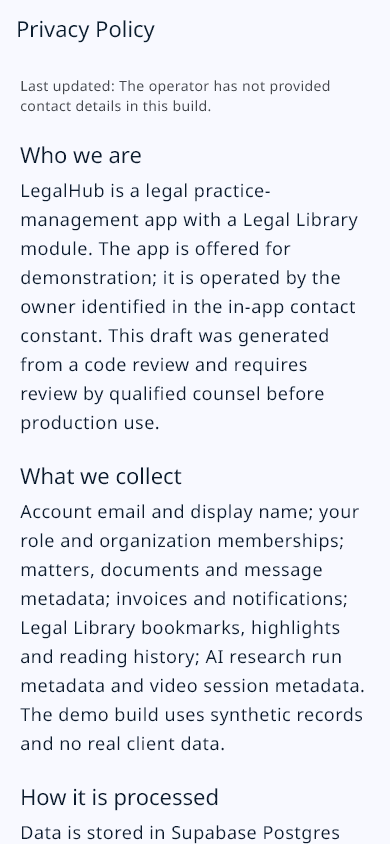
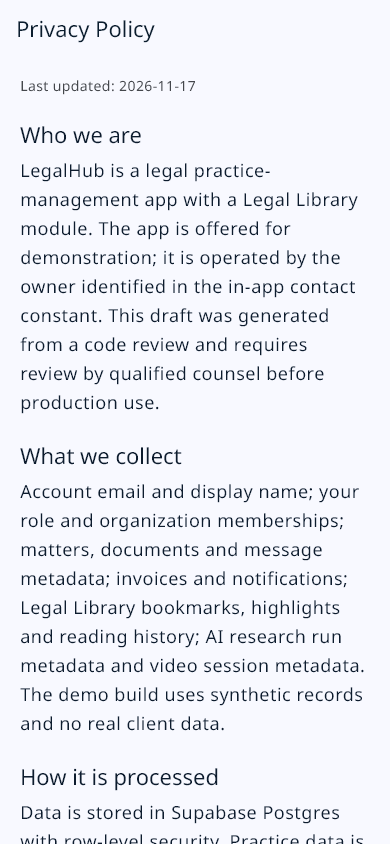
feat(config): fill LegalConfig with owner-confirmed portfolio values
The privacy page still rendered the not-configured notice because all four LegalConfig fields were placeholders. Filling ownerName/contactEmail/lastUpdated/governingLaw (AL-3TAR, al3rar401@gmail.com, 2026-11-17, Laws of Egypt) makes isConfigured true, so the existing per-locale 'Last updated' path renders the ISO date unchanged. A new test pins the four values and the privacy screen's rendered date; the deterministic CAPTURE_SCREENSHOTS generator regenerated only 10_privacy.png (verified by git status). Suite declarations moved 2390 -> 2392 and runtime 2417 -> 2419, so DEEP_DIVE/README were updated with the measured counts; verify_ledger stays green.

Changed region(s): [[0.0308, 0.1232, 0.9231, 1.0], [0.3077, 0.0924, 0.8615, 0.154]]

diff --git a/test/legal/legal_config_test.dart b/test/legal/legal_config_test.dart
@@ -1,0 +1,47 @@
+import 'package:flutter/material.dart';
+import 'package:flutter_test/flutter_test.dart';
+import 'package:legalhub/app/legal_config.dart';
+import 'package:legalhub/features/legal/presentation/legal_document_screen.dart';
+import 'package:legalhub/l10n/app_localizations.dart';
+
+/// Pins the owner-confirmed LegalConfig values and proves the privacy screen
+/// renders them through the existing localisation path (no new formatting).
+void main() {
+  test('owner-confirmed config values are filled and configured', () {
+    expect(LegalConfig.operatorName, 'AL-3TAR');
+    expect(LegalConfig.contactEmail, 'al3rar401@gmail.com');
+    expect(LegalConfig.lastUpdated, '2026-11-17');
+    expect(LegalConfig.governingLaw, 'Laws of Egypt');
+    expect(LegalConfig.isConfigured, isTrue);
+    for (final String value in <String>[
+      LegalConfig.operatorName,
+      LegalConfig.contactEmail,
+      LegalConfig.lastUpdated,
+      LegalConfig.governingLaw,
+    ]) {
+      expect(value.trim(), isNotEmpty);
+      expect(value.startsWith('REPLACE_'), isFalse);
+    }
+  });
+
+  testWidgets('privacy screen renders the filled last-updated date', (
+    WidgetTester tester,
+  ) async {
+    await tester.pumpWidget(
+      const MaterialApp(
+        locale: Locale('en'),
+        localizationsDelegates: AppLocalizations.localizationsDelegates,
+        supportedLocales: AppLocalizations.supportedLocales,
+        home: LegalDocumentScreen(kind: LegalDocumentKind.privacy),
+      ),
+    );
+    await tester.pumpAndSettle();
+
+    final AppLocalizations l10n = AppLocalizations.of(
+      tester.element(find.byType(LegalDocumentScreen)),
+    );
+    expect(find.text(l10n.legalLastUpdated('2026-11-17')), findsOneWidget);
+    expect(find.text('Privacy Policy'), findsOneWidget);
+    expect(tester.takeException(), isNull);
+  });
+}

diff --git a/lib/app/legal_config.dart b/lib/app/legal_config.dart
@@ -7,10 +7,10 @@
 /// the owner replaces them, the screens render an honest "not configured"
 /// notice instead of a fabricated contact address.
 abstract final class LegalConfig {
-  static const String operatorName = 'REPLACE_WITH_LEGAL_ENTITY_NAME';
-  static const String contactEmail = 'REPLACE_WITH_CONTACT_EMAIL';
-  static const String lastUpdated = 'REPLACE_WITH_YYYY-MM-DD';
-  static const String governingLaw = 'REPLACE_WITH_GOVERNING_LAW';
+  static const String operatorName = 'AL-3TAR';
+  static const String contactEmail = 'al3rar401@gmail.com';
+  static const String lastUpdated = '2026-11-17';
+  static const String governingLaw = 'Laws of Egypt';
 
   static bool get isConfigured =>
       !operatorName.startsWith('REPLACE_') &&

diff --git a/docs/DEEP_DIVE.md b/docs/DEEP_DIVE.md
@@ -121,7 +121,7 @@ recorded prerequisites are approved — see
   Wired into presentation via `SignUpCubit`/`SignUpGateway`; the redaction
   invariant is pinned by a failure-path `blocTest` in
   `test/features/auth/sign_up_cubit_test.dart`.
-- Tests (2390 total) — full suite green 2026-11-16 (2417 at runtime; 10 capture/golden-only tests skipped by default): Result, AppError, UseCase, ViewState, AuthCubit (demo
+- Tests (2392 total) — full suite green 2026-11-16 (2419 at runtime; 13 capture/golden-only tests skipped by default): Result, AppError, UseCase, ViewState, AuthCubit (demo
   session + gateway-failure error path), LocaleCubit (locale persistence +
   unsupported-code rejection), ThemeCubit (mode persistence + restart
   restore), Redactor (password/OTP/email/Bearer redaction with leak guards),
@@ -474,8 +474,8 @@ HTTP layer and lock the exact postgrest await shape the app depends on —
 (2: `from().select()` plain + chained `.eq()` → raw row list). A future
 postgrest upgrade that changes the await contract fails loudly in CI, not on
 a device (the on-device create-org crash this class caused is recorded in
-`docs/current_applied_surface_2026-08-08.md` §1d). Current suite: **2390 tests**
-(2390 tracked declarations, 2417 at runtime; 10 capture/golden-only tests
+`docs/current_applied_surface_2026-08-08.md` §1d). Current suite: **2392 tests**
+(2392 tracked declarations, 2419 at runtime; 13 capture/golden-only tests
 skipped by default; ledger `verify_ledger.sh` PASS).
 
 ## Fonts and licenses

diff --git a/README.md b/README.md
@@ -33,7 +33,7 @@ All 15 images are generated from the demo build by `CAPTURE_SCREENSHOTS=1 flutte
 - **Three languages, RTL throughout.** English, Arabic and Turkish; 983 l10n keys per locale with an enforced parity gate.
 - **Phone to tablet.** One breakpoint contract for the navigation rail, two-pane master/detail and RTL-aware spacing.
 - **Accessibility gates.** Tap-target/label guidelines on 12 surfaces; 14 theme token pairs pinned at 4.5:1. See [`docs/accessibility_statement.md`](docs/accessibility_statement.md).
-- **Measured verification.** 2,390 tracked test declarations (2,417 run, 13 skipped), 83.77% line coverage, 45 screens, 32 migrations, 11 ADRs — all gates run in CI.
+- **Measured verification.** 2,392 tracked test declarations (2,419 run, 13 skipped), 83.77% line coverage, 45 screens, 32 migrations, 11 ADRs — all gates run in CI.
 
 ## Architecture
 
